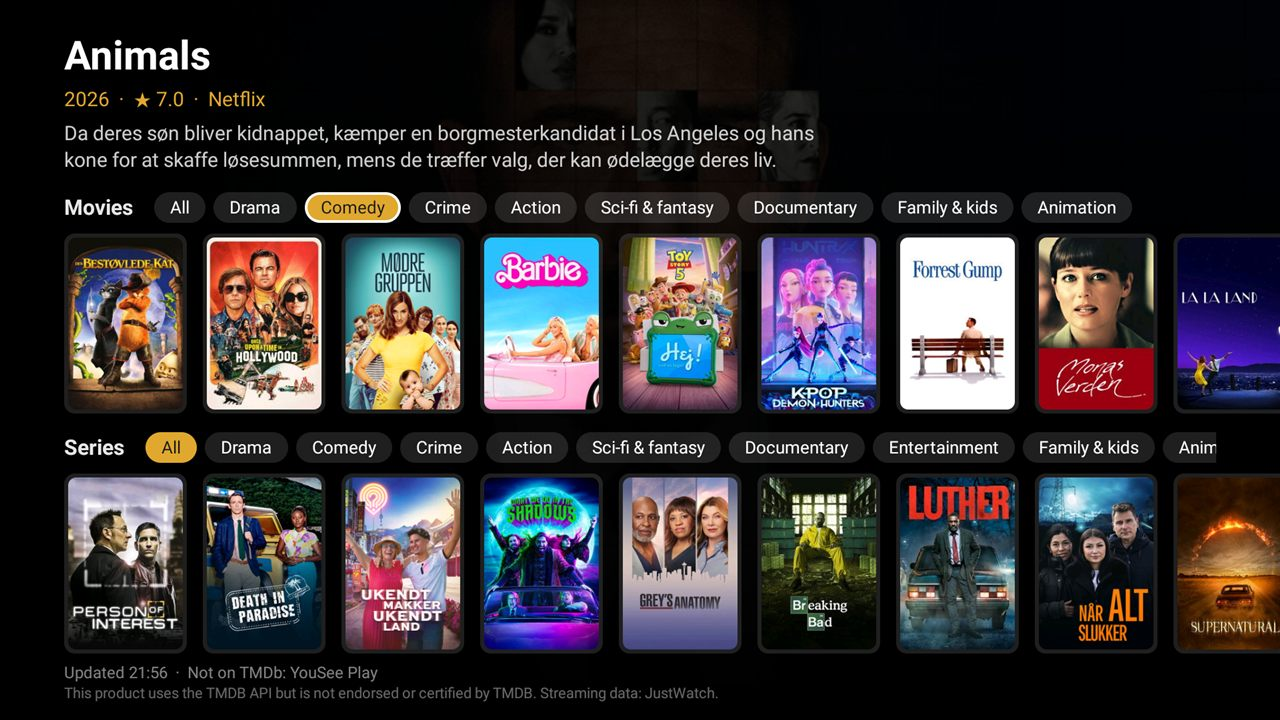
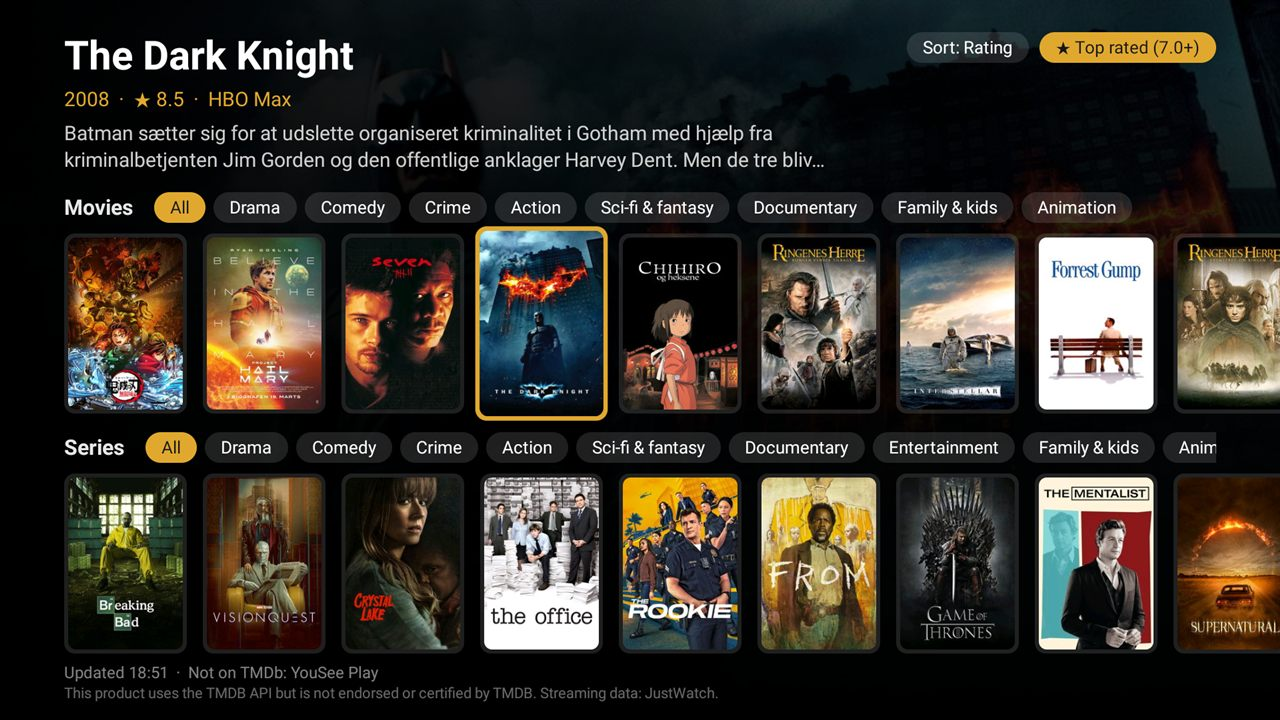
README: a new screenshot with Sort and Top rated
Taken on the Philips: The Dark Knight focused, Sort: Rating and Top rated on. 1280x720, 169 KB.

diff --git a/README.md b/README.md
@@ -2,7 +2,7 @@
 
 What is included in your own streaming subscriptions right now, on one Android TV screen.
 
-![Forslag on a Philips Android TV: genre tabs and a row of comedies above a row of series](screenshot.jpg)
+![Forslag on a Philips Android TV: The Dark Knight focused in the movie row, genre tabs, Sort and Top rated](screenshot.jpg)
 
 *Forslag* is Danish for "suggestions". The app shows a row of movies and a row of series, most popular first,
 mixed from each of your services in turn. Each row has genre tabs: All, Drama, Comedy, Crime, Action, Sci-fi &
